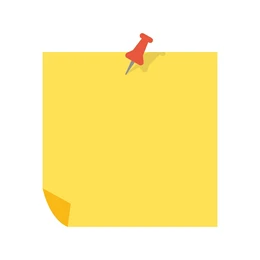
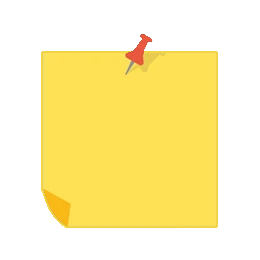
improved styles in group.html

diff --git a/pjf/templates/group.html b/pjf/templates/group.html
@@ -1,6 +1,7 @@
 {% extends "base.html" %}
 {% block title %}Fiszki - Dodaj Kartę{% endblock %}
 {% block content %}
+<div class="group">
 
 {% with messages  = get_flashed_messages() %}
 {% if messages %}
@@ -10,50 +11,53 @@
 {% endif %}
 {% endwith %}
 
-    <div class="container-fluid">
-        <h2 class="text-center">Grupa: {{group_name}}</h2>
+
         <form action="#" method="post">
-          <div class="form-group mt-3">
-            <label for="form-word"
-                {% if error == 'word' %}
-                class="text-danger"
-                {% endif %}
-                >
-                Podaj słowo</label>
-            <input type="text"
-               {% if error == 'word' %}
-                    class="form-control border border-danger"
-               {% else %}
-                    class="form-control"
-               {% endif %}
-               id="form-word" name="word" placeholder="Słowo">
-          </div>
-          <div class="form-group mt-3">
-            <label for="passwordInput"
-               {% if error == 'translation' %}
-                class="text-danger"
-                {% endif %}
-              >Podaj jego tłumaczenie</label>
-            <input
-                type="text"
-                {% if error == 'translation' %}
-                    class="form-control border border-danger"
-                {% else %}
-                    class="form-control"
-                {% endif %}
-                id="passwordInput"
-                name="translation"
-                placeholder="Tłumaczenie"
-              >
-          </div>
-          <button type="submit" class="btn btn-primary mt-3">Zatwierdź</button>
+          <img src="{{url_for('static', filename='images/sticky_notes1.png')}}" class="card-img"/>
+          <div class="form-body">
+            <div class="form-group mt-3">
+                <label for="form-word"
+                    {% if error == 'word' %}
+                    class="text-danger"
+                    {% endif %}
+                    >
+                    Podaj słowo</label>
+                <input type="text"
+                   {% if error == 'word' %}
+                        class="form-control border border-danger transparent-input w-50 text-center"
+                   {% else %}
+                        class="form-control transparent-input w-50 text-center"
+                   {% endif %}
+                   id="form-word" name="word">
+              </div>
+              <div class="form-group mt-3">
+                <label for="passwordInput"
+                   {% if error == 'translation' %}
+                    class="text-danger"
+                    {% endif %}
+                  >Podaj jego tłumaczenie</label>
+                <input
+                    type="text"
+                    {% if error == 'translation' %}
+                        class="form-control border border-danger transparent-input w-50 text-center"
+                    {% else %}
+                        class="form-control transparent-input w-50 text-center"
+                    {% endif %}
+                    id="passwordInput"
+                    name="translation"
+                  >
+              </div>
+            </div>
+          <button type="submit" class="btn btn-primary mt-3">Dodaj</button>
         </form>
     </div>
 
     {% if cards %}
+    <div class="board">
+        <img src="{{url_for('static', filename='images/pin_board.jpg')}}" class="board-img"/>
          <div class="row justify-content-start flex-wrap">
             {% for card in cards %}
-            <div class="p-0 m-2 position-relative" style="width: 15%">
+            <div class="p-0 m-3 position-relative" style="width: 15%">
                 <a class="position-absolute text-decoration-none text-dark" href="/delete_card/{{card.id}}" style="top:20%; right: 0%">
                     <img src="{{url_for('static', filename='images/close_icon.png')}}"/>
                 </a>
@@ -65,5 +69,7 @@
             </div>
             {% endfor %}
         </div>
+    </div>
     {% endif %}
+</div>
 {% endblock %}

diff --git a/pjf/static/styles/style.css b/pjf/static/styles/style.css
@@ -66,7 +66,7 @@
     width: 37%;
     margin-bottom: 14%;
 }
-
+.group input:focus,
 .lesson input:focus{
     background: transparent!important;
     border: none!important;
@@ -83,6 +83,64 @@
 }
 
 .home .card-body{
-    color: #0d6efd;
+    color: #000;
     font-weight: 600;
+}
+
+.group form{
+    max-width: 40%;
+    text-align: center;
+    margin: 0 auto;
+    margin-bottom: 5%;
+}
+
+.group form label{
+    margin-bottom: 3%;
+}
+
+.group .board{
+    margin-bottom: 5%;
+    font-weight: 600;
+}
+
+.btn-primary{
+    font-weight: 600!important;
+}
+
+.group .card-img{
+    max-width: 90%;
+    width: 100%;
+    z-index: 2;
+    position: relative;
+}
+
+.group .form-body{
+    margin-top: -68%;
+    z-index: 5;
+    position: relative;
+    font-weight: 600;
+    margin-bottom: 2%;
+}
+
+.group form button{
+    z-index: 5;
+    padding: 2% 10%;
+    position: relative;
+    background-color: #ffc107;
+    border: none;
+}
+.group form button:hover{
+    background-color: #ff9c07;
+}
+
+.board img.board-img{
+    position: absolute;
+    width: auto;
+}
+.board .row.flex-wrap{
+    padding: 1% 3%;
+}
+
+.board{
+    margin-top: 10%;
 }

diff --git a/pjf/user/routes.py b/pjf/user/routes.py
@@ -88,7 +88,6 @@ def sign_up_page():
             db.session.add(new_user)
             db.session.commit()
             session["logged_in"] = True  # if user is succesfull
-            flash("Zostałeś poprawnie zarejestrowany!", "info")
             return redirect(url_for("main_page"))
     else:
         if "logged_in" in session:  # already logged in - redirect
